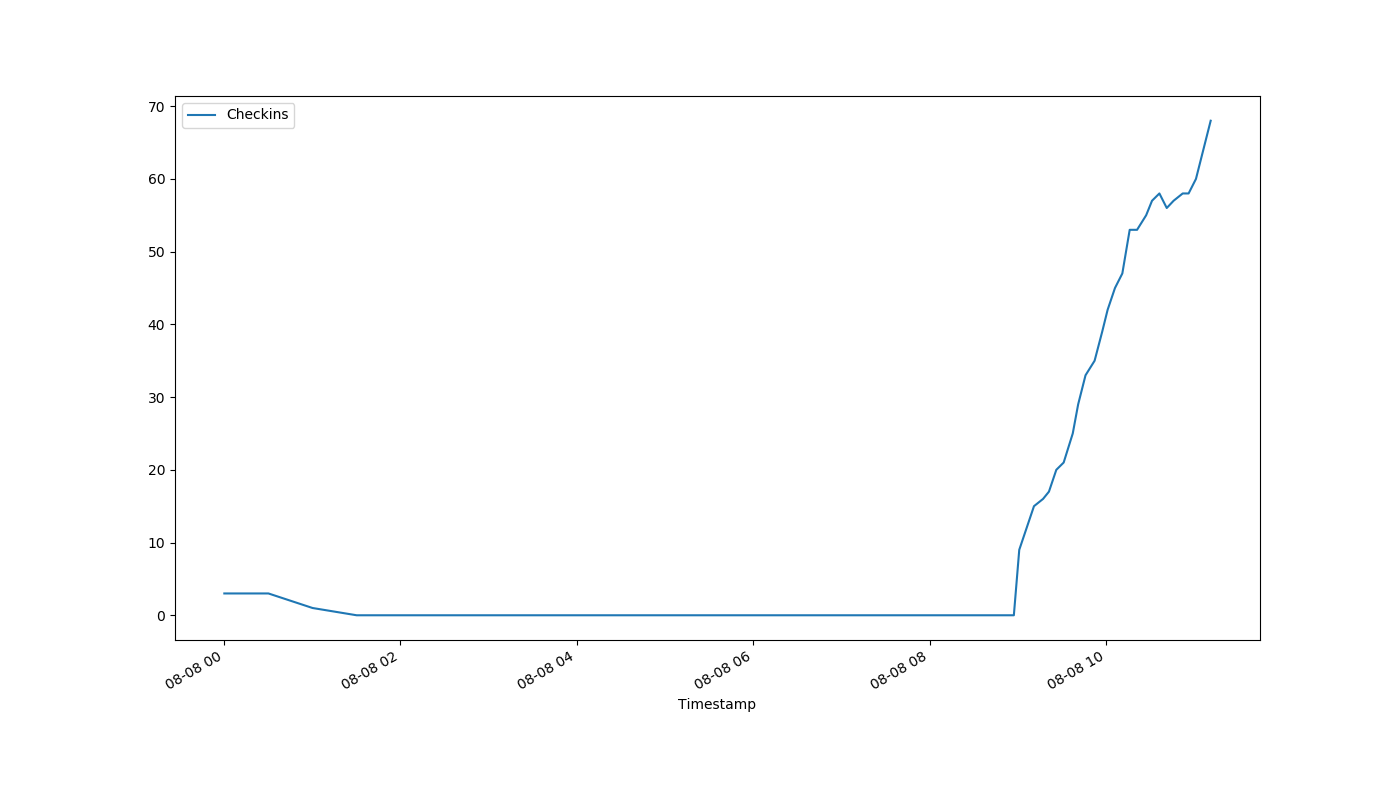
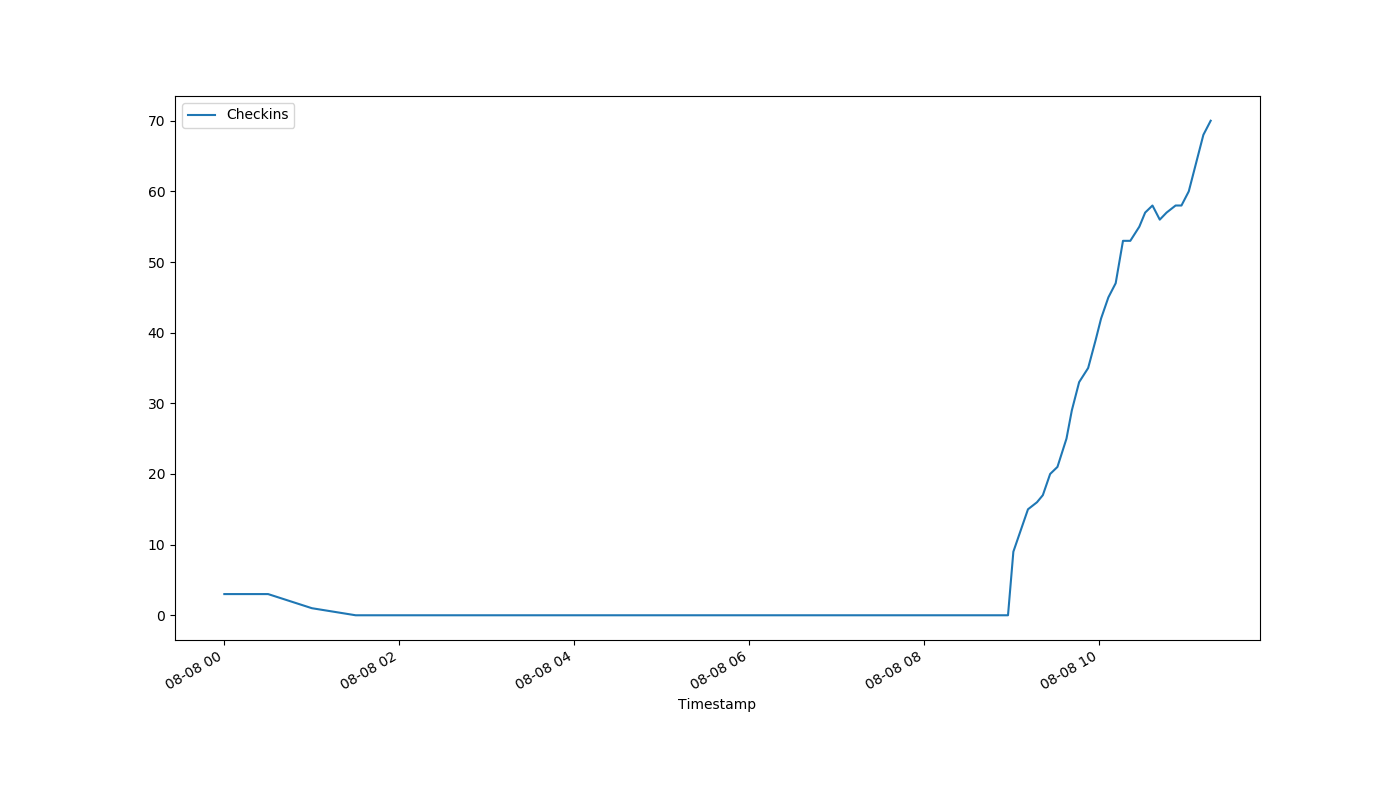
auto-Aug-08-11:18:24

diff --git a/index.html b/index.html
@@ -1,1 +1,1 @@
-<!DOCTYPE html><html><head><meta http-equiv="refresh" content="30"><link rel='stylesheet' href='holmcurrent.css'></head><body><p id='count'>68</p><div id='graph-wrap'><img id='graph' src='holmgraph-Aug-08.png'></div><p id='updated'>Last updated 11:12:09 / 11:11:12</p></body></html>
+<!DOCTYPE html><html><head><meta http-equiv="refresh" content="30"><link rel='stylesheet' href='holmcurrent.css'></head><body><p id='count'>70</p><div id='graph-wrap'><img id='graph' src='holmgraph-Aug-08.png'></div><p id='updated'>Last updated 11:17:09 / 11:16:12</p></body></html>
